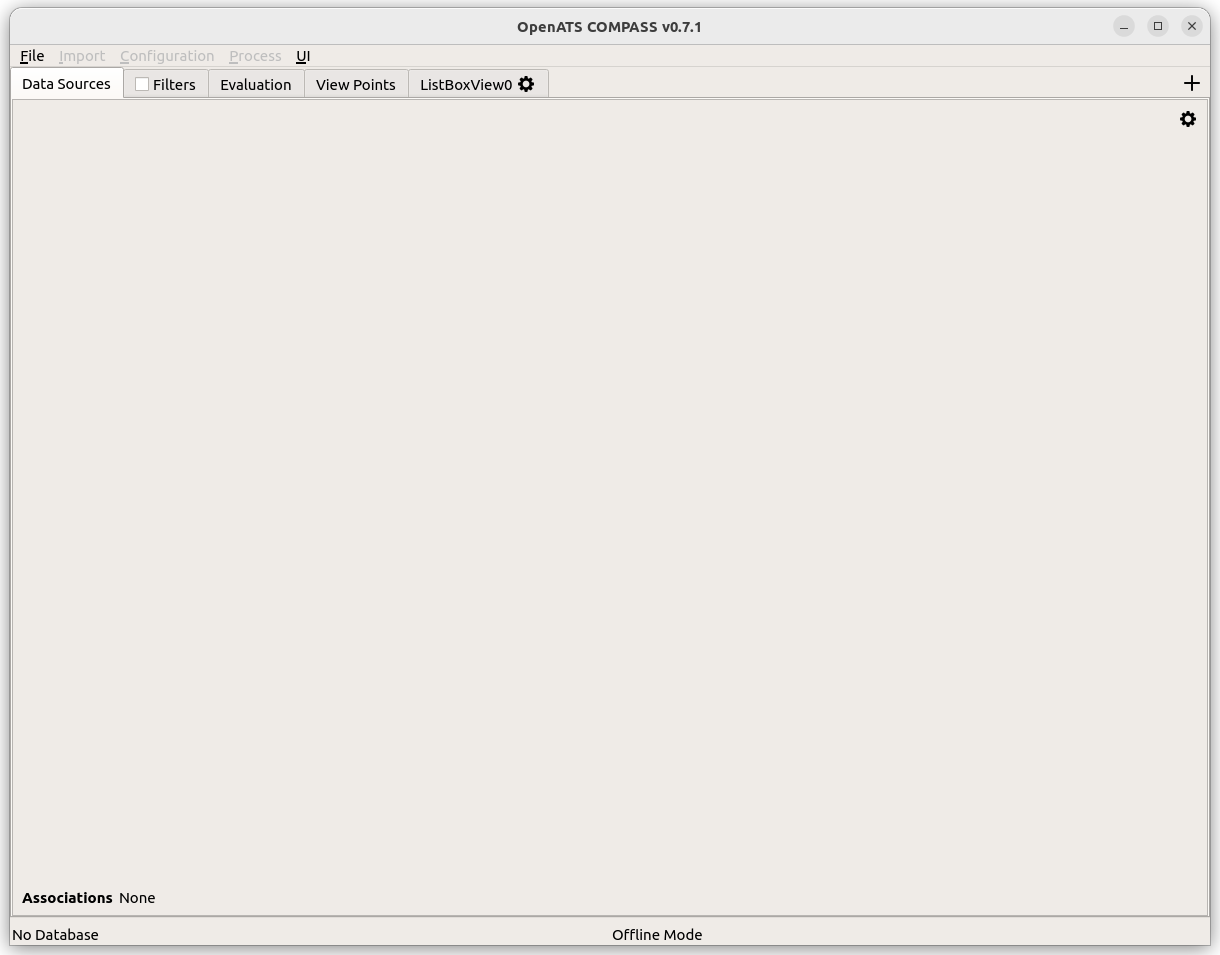
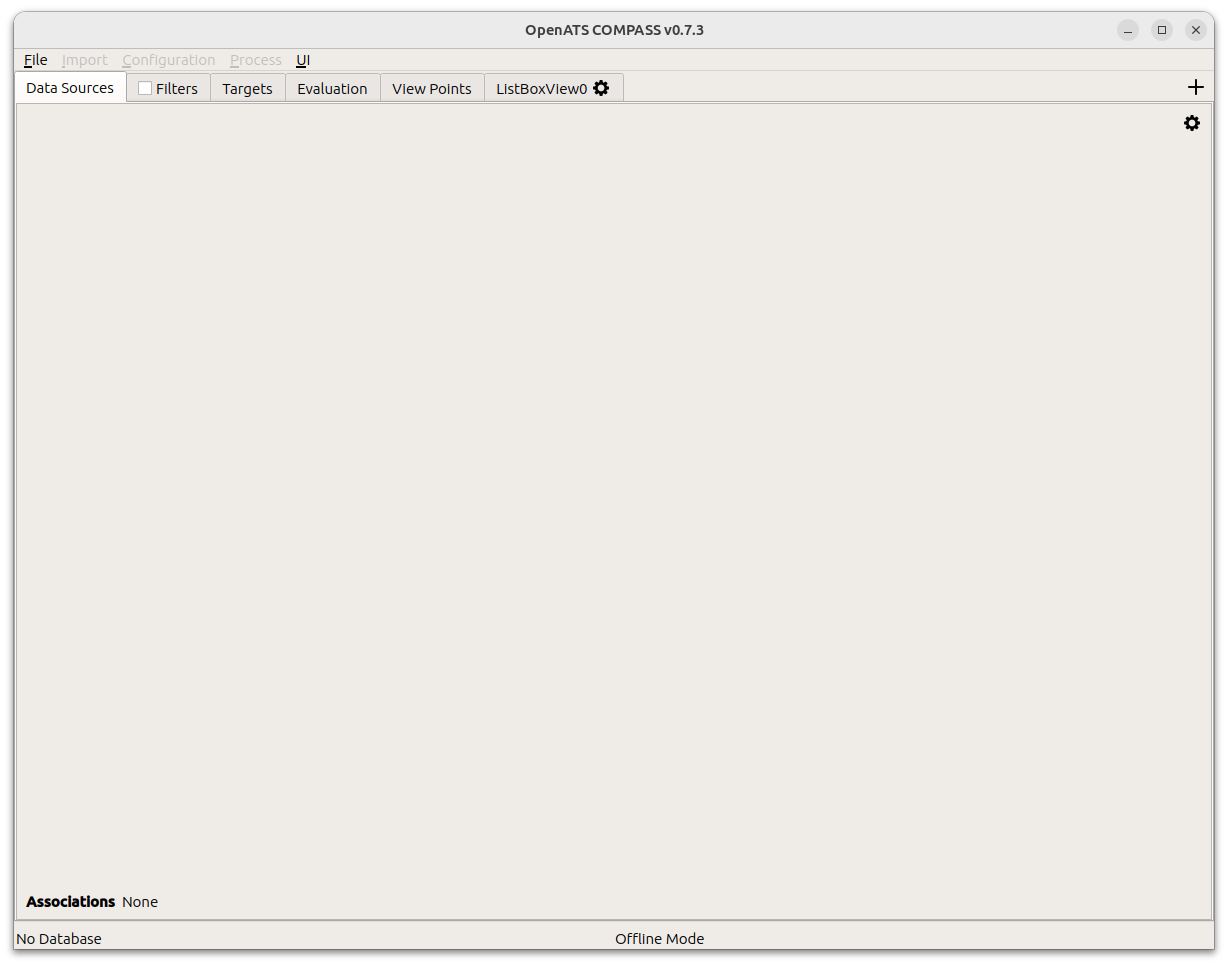
oldos compilter fixes

Changed region(s): [[0.0, 0.0, 1.0, 1.0]]

diff --git a/doc/user_manual/intro/intro_key_concepts.tex b/doc/user_manual/intro/intro_key_concepts.tex
@@ -166,4 +166,12 @@ The 'Live: Running' can be paused into the 'Live: Paused' mode, which allows off
 
 The 'Live' modes can be quit, after which the application returns to the 'Offline' mode, to allow inspection of the full database as always.
 
- 
+\subsection*{Calculation of Reference Trajectories}
+
+Based on the associated target reports, references can be calculated. Using a selection of data sources, with optional filters on position quality indicators, references are calculated using ADS-B and / or System Track target reports using a Kalman based algorithm with RTS smoothing. The resulting references are then written as 'RefTraj' data into the database. \\
+
+The main use case of calculated references is as reference data in evaluations. Special care should be taken that the reference accuracy needed for the respective evaluation is given.
+
+\subsection*{Evaluation}
+
+Based on reference and test data source(s), evaluation of configurable standards within defined airspace sectors can be performed. The results are given as sector averages as well as per-target statistics and can be inspected down to the per-target-report level if wanted. Certain targets can be removed from the evaluation (i.e. target not of interest, transponder issues), and evaluation report documents can be automatically generated as PDFs.

diff --git a/src/task/reference/calculatereferencestask.cpp b/src/task/reference/calculatereferencestask.cpp
@@ -72,10 +72,10 @@ CalculateReferencesTask::CalculateReferencesTask(const std::string& class_id,
     registerParameter("rec_resample_result_qstd", &settings_.resample_result_Q_std, 10.0);
 
     registerParameter("use_tracker_data"  , &settings_.use_tracker_data, true);
-    //registerParameter("data_sources_tracker", &settings_.data_sources_tracker, json::object());
+    registerParameter("data_sources_tracker", &settings_.data_sources_tracker, nlohmann::json::object());
 
     registerParameter("use_adsb_data"  , &settings_.use_adsb_data, true);
-    //registerParameter("data_sources_adsb", &settings_.data_sources_adsb, json::object());
+    registerParameter("data_sources_adsb", &settings_.data_sources_adsb, nlohmann::json::object());
     
     // position usage
     registerParameter("filter_position_usage", &settings_.filter_position_usage, true);

diff --git a/doc/user_manual/intro/intro_feature_highlights.tex b/doc/user_manual/intro/intro_feature_highlights.tex
@@ -9,7 +9,7 @@
 \subsection{Import}
 \begin{itemize}  
     \item Support of SQLite3 database system
-    \item Dynamic JSON import from manual jASTERIX run %, SDDL, ADS-B exchange, OpenSky Network
+    \item Dynamic JSON import from manual jASTERIX decoder run %, SDDL, ADS-B exchange, OpenSky Network
     \item Dynamic ASTERIX import using jASTERIX
     \item Import of (D)GPS trails from NMEA files
     \item Import of polygons from GML, KML, ESRI Shapefiles
@@ -66,6 +66,8 @@
 
 \subsection{Evaluation}    
 \begin{itemize}  
+    \item Association of target reports from same target
+    \item Calculation of reference trajetories based on ADS-B, System Tracks
     \item Standard compliance evaluation
     \begin{itemize}  
         \item Definition of standards based on configurable requirements

diff --git a/doc/user_manual/ui_overview/ui_overview.tex b/doc/user_manual/ui_overview/ui_overview.tex
@@ -142,6 +142,7 @@ The UI can be reset to a "default" state (as existed at application startup) usi
 \subfile{ui_ui}
 \subfile{ui_data_sources}
 \subfile{ui_filters}
+\subfile{ui_targets}
 %\subfile{ui_use_cases}
 
 % \subfile{task_manage_schema}
@@ -149,7 +150,7 @@ The UI can be reset to a "default" state (as existed at application startup) usi
 
 % \subfile{task_import_json}
 
-\subsection{Views}
+\section{Views}
 The 'Add View' button \includegraphics[width=0.5cm,frame]{../../data/icons/crosshair_fat.png} on the top right in each window allows adding views to the current window or in a new window. \\
 
 Each View is contained in a tab within a parent window.  At startup, per default only the main window exists, which also holds

diff --git a/doc/user_manual/ui_overview/ui_main_window.tex b/doc/user_manual/ui_overview/ui_main_window.tex
@@ -57,6 +57,10 @@ The following tabs can exist in the main tab area:
    \begin{itemize}
  \item see \nameref{sec:ui_filters}
  \end{itemize}
+  \item Targets: After calculation of associations, the created target are shown
+ \begin{itemize}
+ \item see \nameref{sec:ui_targets}
+ \end{itemize}
  \item Evaluation: Allows adapting/defining requirement-based standards and compliance assessment of said standards
  \begin{itemize}
  \item see \nameref{sec:eval}

diff --git a/src/task/reference/calculatereferencesjob.cpp b/src/task/reference/calculatereferencesjob.cpp
@@ -19,7 +19,7 @@
 
 using namespace std;
 using namespace Utils;
-using namespace nlohmann;
+//using namespace nlohmann;
 using namespace boost::posix_time;
 
 string tracker_only_confirmed_positions_reason {"I062/080 CNF: Tentative or unknown"}; // non-tentative

diff --git a/src/task/reference/calculatereferencestarget.cpp b/src/task/reference/calculatereferencestarget.cpp
@@ -21,7 +21,7 @@ using namespace dbContent::TargetReport;
 using namespace std;
 using namespace Utils;
 using namespace boost::posix_time;
-using namespace nlohmann;
+//using namespace nlohmann;
 
 namespace CalculateReferences {
 
